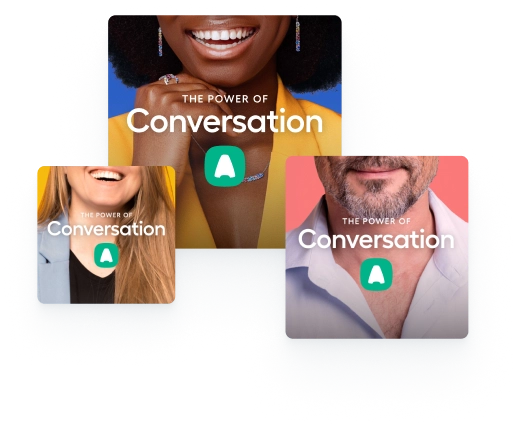
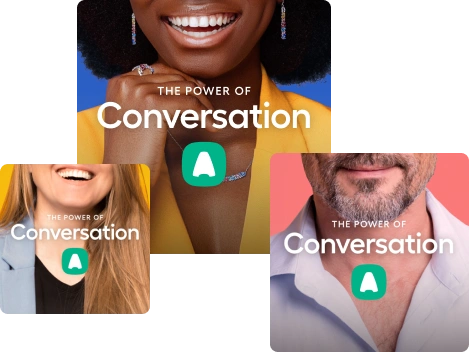
chore: update image spacing

diff --git a/src/app/components/Hero/Hero.module.css b/src/app/components/Hero/Hero.module.css
@@ -1,10 +1,6 @@
 .container {
-  --padding-large: 32px;
-  --padding-small: 16px;
-
   background: linear-gradient(#e4f2f8, #e4f2f800);
-  padding-top: var(--padding-large);
-  padding-bottom: var(--padding-small);
+  padding: var(--spacing-xl) var(--spacing-lg);
 
   display: flex;
   justify-content: center;
@@ -16,6 +12,7 @@
 .heroImageContainer {
   display: flex;
   justify-content: center;
+  /* padding: var(--padding-large); */
 }
 
 .heroImage {
@@ -43,6 +40,9 @@
 .grid {
   display: grid;
   max-width: var(--breakpoint-lg);
+  width: 100%;
+
+  gap: var(--spacing-lg);
 }
 
 /* subscribe section */
@@ -102,10 +102,13 @@
   }
 }
 
-@container grid (min-width: 1000px) {
+@media screen and (min-width: 1000px) {
+  .container {
+    padding: var(--spacing-xxl) var(--spacing-lg);
+  }
+
   .grid {
     grid-template-columns: 1.1fr 0.9fr;
-    padding: var(--spacing-lg);
   }
 
   .content {
@@ -121,7 +124,7 @@
   }
 
   .heroImage {
-    width: 100%;
+    width: 469px;
     height: auto;
     padding: 0;
     max-width: unset;
@@ -146,18 +149,5 @@
 
   .subscribeLink {
     padding: 14px;
-  }
-}
-
-@container grid (min-width: 1080px) {
-  /* TODO: Adjustments until a hero image to spec is provided */
-  .heroImage {
-    transform: scale(1.2) translateY(36px) translateX(28px);
-  }
-}
-
-@media screen and (min-width: 1440px) {
-  .container {
-    padding: unset;
   }
 }

diff --git a/src/app/components/Hero/Hero.tsx b/src/app/components/Hero/Hero.tsx
@@ -23,7 +23,7 @@ export default function Hero() {
             width={311}
             height={233.42}
             className={styles.heroImage}
-            sizes="(min-width: 1020px) 426px, (min-width: 480px) 466px, calc(95.63vw + 15px)"
+            sizes="(min-width: 1040px) 481px, (min-width: 1000px) calc(-385vw + 4404px), (min-width: 560px) 452px, calc(90vw - 34px)"
             priority
           />
         </div>

diff --git a/src/app/globals.css b/src/app/globals.css
@@ -65,6 +65,8 @@
   --spacing-sm: 8px;
   --spacing-md: 16px;
   --spacing-lg: 32px;
+  --spacing-xl: 48px;
+  --spacing-xxl: 72px;
 
   --transition-duration: 525ms; /* NO SPEC: taken from https://aircall.io/brand/ */
 }
